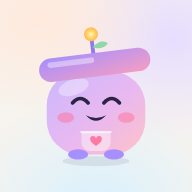
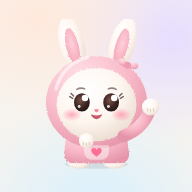
Pip is now a fluffy bunny
An original bunny Pip in the soft, chibi style the owner chose: a round
cream face with fuzzy fur, big glossy eyes with lashes, rosy cheeks, long
ears (one with a bow), a pink hoodie with a heart pocket, and little paws.
Same six moods (waving, happy, thinking, sleeping, excited, idle); new app
icons with Pip waving.

Claude-Session: https://claude.ai/code/session_01BZ79fqEpvmtLEfW6xPypjC

Changed region(s): [[0.1875, 0.125, 0.8125, 0.875]]

diff --git a/public/pip.js b/public/pip.js
@@ -1,51 +1,79 @@
-// Pip, the Pocket Box mascot: a little box with a lid that never quite
-// closes, a sprout with a glowing bulb, and a lot of enthusiasm.
-// Pip.svg(mood, size) returns inline SVG. Moods: hi (waving), happy,
-// think, sleep, wow, idle. Animation lives in CSS (.pip ...).
+// Pip, the Pocket Box mascot: a round, fluffy little bunny in a pink hoodie
+// with a heart pocket and a bow on one ear. Drawn in SVG with soft shading
+// and fuzzy fur so it stays crisp at any size.
+// Pip.svg(mood, size) returns inline SVG. Moods: hi (waving), happy, think,
+// sleep, wow, idle. Animation lives in CSS (.pip ...).
 (function (root) {
   'use strict';
   let n = 0;
   function svg(mood = 'idle', size = 96, { still = false } = {}) {
-    const id = `pip${++n}`;
-    const ink = '#2b2442';
-    const eyes = {
-      happy: `<path d="M39 66 Q46 58 53 66" /><path d="M67 66 Q74 58 81 66" />`,
-      sleep: `<path d="M39 66 Q46 71 53 66" /><path d="M67 66 Q74 71 81 66" />`,
-      wow: `<ellipse cx="46" cy="64" rx="7.5" ry="9.5" class="fill"/><ellipse cx="74" cy="64" rx="7.5" ry="9.5" class="fill"/><circle cx="48.6" cy="60.4" r="2.8" fill="#fff"/><circle cx="76.6" cy="60.4" r="2.8" fill="#fff"/>`,
-      think: `<ellipse cx="47" cy="61" rx="6.4" ry="8.2" class="fill"/><ellipse cx="75" cy="61" rx="6.4" ry="8.2" class="fill"/><circle cx="49.5" cy="57" r="2.3" fill="#fff"/><circle cx="77.5" cy="57" r="2.3" fill="#fff"/>`,
-    }[mood] || `<g class="pip-eyes"><ellipse cx="45" cy="65" rx="7.6" ry="9.6" class="fill"/><ellipse cx="75" cy="65" rx="7.6" ry="9.6" class="fill"/><circle cx="47.8" cy="61" r="3" fill="#fff"/><circle cx="77.8" cy="61" r="3" fill="#fff"/><circle cx="43" cy="69" r="1.3" fill="#fff" opacity=".8"/><circle cx="73" cy="69" r="1.3" fill="#fff" opacity=".8"/></g>`;
+    const k = `pip${++n}`;
+    const ink = '#3b2626';
+    const closed = mood === 'happy' || mood === 'sleep';
+    const ey = mood === 'think' ? 71.5 : 74;
+    const ew = mood === 'wow' ? 8 : 7;
+    const eh = mood === 'wow' ? 9 : 8.2;
+    const eyes = closed
+      ? (mood === 'happy'
+        ? `<path d="M40.5 75 Q47 68.5 53.5 75" /><path d="M66.5 75 Q73 68.5 79.5 75" />`
+        : `<path d="M40.5 74 Q47 78.5 53.5 74" /><path d="M66.5 74 Q73 78.5 79.5 74" />`)
+      : `<g class="pip-eyes">
+          <ellipse cx="47" cy="${ey}" rx="${ew}" ry="${eh}" fill="url(#${k}e)" stroke="none"/>
+          <ellipse cx="73" cy="${ey}" rx="${ew}" ry="${eh}" fill="url(#${k}e)" stroke="none"/>
+          <circle cx="49.8" cy="${ey - 3.8}" r="2.9" fill="#fff" stroke="none"/><circle cx="75.8" cy="${ey - 3.8}" r="2.9" fill="#fff" stroke="none"/>
+          <circle cx="44.6" cy="${ey + 3.6}" r="1.3" fill="#fff" opacity=".85" stroke="none"/><circle cx="70.6" cy="${ey + 3.6}" r="1.3" fill="#fff" opacity=".85" stroke="none"/>
+          <path d="M38.8 ${ey - 3.5} l-2.6 -1.6 M39.6 ${ey - 5.6} l-2.2 -2.2" stroke-width="1.3" opacity=".7"/><path d="M81.2 ${ey - 3.5} l2.6 -1.6 M80.4 ${ey - 5.6} l2.2 -2.2" stroke-width="1.3" opacity=".7"/>
+        </g>`;
+    const brows = `<path d="M42.5 62.5 Q46 60.4 49.5 62" stroke-width="1.4" opacity=".55"/><path d="M70.5 62 Q74 60.4 77.5 62.5" stroke-width="1.4" opacity=".55"/>`;
     const mouth = {
-      happy: `<path d="M51 77 Q60 87 69 77 Q60 82 51 77Z" class="fill"/>`,
-      hi: `<path d="M51 77 Q60 87 69 77 Q60 82 51 77Z" class="fill"/>`,
-      sleep: `<ellipse cx="60" cy="79" rx="2.6" ry="2" class="fill"/>`,
-      wow: `<ellipse cx="60" cy="80" rx="4.2" ry="5" class="fill"/>`,
-      think: `<path d="M55 80 Q60 78 66 80" />`,
-    }[mood] || `<path d="M53 77 Q60 84 67 77" />`;
+      happy: `<path d="M55.2 85.4 Q60 92.6 64.8 85.4 Q60 87.6 55.2 85.4Z" fill="#c75b6b" stroke="#c75b6b" stroke-width="1"/>`,
+      hi: `<path d="M55.6 85.2 Q60 91.6 64.4 85.2 Q60 87.2 55.6 85.2Z" fill="#c75b6b" stroke="#c75b6b" stroke-width="1"/>`,
+      wow: `<ellipse cx="60" cy="87.4" rx="3" ry="3.6" fill="#c75b6b" stroke="none"/>`,
+      sleep: `<path d="M57.6 86.2 Q60 87.6 62.4 86.2" stroke-width="1.5"/>`,
+      think: `<path d="M57 86.6 Q60 85.4 63.4 86.8" stroke-width="1.5"/>`,
+    }[mood] || `<path d="M56.2 85 q1.9 2 3.8 0 q1.9 2 3.8 0" stroke-width="1.5"/>`;
+    // Paws: held at the chest, or one raised to wave.
+    const paw = (cx, cy, r = 6.6) => `<circle cx="${cx}" cy="${cy}" r="${r}" fill="url(#${k}c)"/><path d="M${cx - 2.6} ${cy + 1.6} v2 M${cx} ${cy + 2.2} v2 M${cx + 2.6} ${cy + 1.6} v2" stroke="#e3cfc2" stroke-width="1.1" stroke-linecap="round"/>`;
+    const paws = mood === 'hi'
+      ? `${paw(51, 108)}<g class="pip-arm"><path d="M84 104 Q100 98 106 84" stroke="url(#${k}h)" stroke-width="11" fill="none" stroke-linecap="round"/>${paw(108, 78, 7.6)}</g>`
+      : mood === 'think' ? `${paw(51, 109)}<path d="M80 108 Q80 100 72 96" stroke="url(#${k}h)" stroke-width="10" fill="none" stroke-linecap="round"/>${paw(70, 95, 6.6)}`
+        : `${paw(51, 108)}${paw(69, 108)}`;
     const extra = {
-      hi: `<g class="pip-arm"><path d="M101 84 Q112 76 114 62" stroke="#c9a6f7" stroke-width="10" fill="none" stroke-linecap="round"/><circle cx="114.5" cy="59" r="6.8" fill="#d7b3f6"/></g>`,
-      sleep: `<g class="pip-z" fill="#9b84f5" font-family="ui-rounded, system-ui, sans-serif" font-weight="800"><text x="96" y="24" font-size="15">z</text><text x="108" y="12" font-size="10">z</text></g>`,
-      think: `<g class="pip-dots" fill="#9b84f5"><circle cx="98" cy="22" r="3.2"/><circle cx="107" cy="14" r="4"/><circle cx="116" cy="5" r="4.6"/></g>`,
-      wow: `<g fill="#ffcf5c"><path d="M14 40 l3 -7 l3 7 l7 3 l-7 3 l-3 7 l-3 -7 l-7 -3z"/><path d="M104 30 l2 -5 l2 5 l5 2 l-5 2 l-2 5 l-2 -5 l-5 -2z"/></g>`,
+      sleep: `<g class="pip-z" fill="#b59cf5" font-family="ui-rounded, system-ui, sans-serif" font-weight="800"><text x="92" y="44" font-size="15">z</text><text x="104" y="32" font-size="10">z</text></g>`,
+      think: `<g class="pip-dots" fill="#b59cf5"><circle cx="94" cy="50" r="3"/><circle cx="102" cy="42" r="3.8"/><circle cx="111" cy="33" r="4.6"/></g>`,
+      wow: `<g fill="#ffcf5c"><path d="M12 62 l3 -7 l3 7 l7 3 l-7 3 l-3 7 l-3 -7 l-7 -3z"/><path d="M103 56 l2 -5 l2 5 l5 2 l-5 2 l-2 5 l-2 -5 l-5 -2z"/></g>`,
     }[mood] || '';
-    return `<svg class="pip pip-${mood}${still ? ' still' : ''}" width="${size}" height="${size}" viewBox="-2 -9 124 134" role="img" aria-label="Pip">
+    const droop = mood === 'sleep' ? 1 : 0;
+    return `<svg class="pip pip-${mood}${still ? ' still' : ''}" width="${size}" height="${Math.round(size * 1.12)}" viewBox="0 0 120 134" role="img" aria-label="Pip">
   <defs>
-    <linearGradient id="${id}b" x1="0" y1="0" x2="1" y2="1"><stop offset="0" stop-color="#c9b8ff"/><stop offset=".55" stop-color="#e9b8f0"/><stop offset="1" stop-color="#ffc2c7"/></linearGradient>
-    <linearGradient id="${id}l" x1="0" y1="0" x2="1" y2="1"><stop offset="0" stop-color="#a68fff"/><stop offset="1" stop-color="#f59ec2"/></linearGradient>
-    <radialGradient id="${id}g" cx=".5" cy=".5" r=".5"><stop offset="0" stop-color="#fff6c9"/><stop offset=".5" stop-color="#ffd76a"/><stop offset="1" stop-color="#ffb84d"/></radialGradient>
+    <radialGradient id="${k}c" cx=".38" cy=".3" r=".8"><stop offset="0" stop-color="#ffffff"/><stop offset=".55" stop-color="#fdf6ef"/><stop offset="1" stop-color="#e8d7cb"/></radialGradient>
+    <radialGradient id="${k}h" cx=".35" cy=".22" r=".85"><stop offset="0" stop-color="#ffe0e7"/><stop offset=".55" stop-color="#f8b9c8"/><stop offset="1" stop-color="#e595a9"/></radialGradient>
+    <radialGradient id="${k}i" cx=".5" cy=".4" r=".7"><stop offset="0" stop-color="#ffd0da"/><stop offset="1" stop-color="#f3a2b5"/></radialGradient>
+    <radialGradient id="${k}e" cx=".42" cy=".38" r=".7"><stop offset="0" stop-color="#7a5348"/><stop offset=".55" stop-color="#3e2723"/><stop offset="1" stop-color="#1e1212"/></radialGradient>
+    <radialGradient id="${k}b" cx=".5" cy=".5" r=".5"><stop offset="0" stop-color="#ff8fa8" stop-opacity=".75"/><stop offset="1" stop-color="#ff8fa8" stop-opacity="0"/></radialGradient>
+    <filter id="${k}f" x="-10%" y="-10%" width="120%" height="120%"><feTurbulence type="fractalNoise" baseFrequency=".85" numOctaves="2" seed="7" result="t"/><feDisplacementMap in="SourceGraphic" in2="t" scale="2.2" xChannelSelector="R" yChannelSelector="G"/></filter>
   </defs>
-  <ellipse cx="60" cy="118" rx="30" ry="4.5" fill="#2b2442" opacity=".09" class="pip-shadow"/>
+  <ellipse cx="60" cy="129" rx="28" ry="4" fill="#3b2626" opacity=".1" class="pip-shadow"/>
   <g class="pip-body">
-    <g class="pip-sprout" transform="rotate(-7 14 44)"><path d="M60 30 C60 22 60 18 60 13" stroke="#8f78f2" stroke-width="3.4" fill="none" stroke-linecap="round"/><path d="M60 22 C66 16 72 17 74 20 C70 24 65 24 60 22Z" fill="#8fd6a8"/><circle cx="60" cy="10" r="6.2" fill="url(#${id}g)" class="pip-bulb"/></g>
-    <rect x="16" y="38" width="88" height="74" rx="30" fill="url(#${id}b)"/>
-    <ellipse cx="40" cy="52" rx="14" ry="7" fill="#fff" opacity=".35" transform="rotate(-18 40 52)"/>
-    <g class="pip-lid" transform="rotate(-7 14 44)"><rect x="10" y="27" width="100" height="21" rx="10.5" fill="url(#${id}l)"/><rect x="18" y="30.5" width="42" height="5" rx="2.5" fill="#fff" opacity=".4"/></g>
-    <g class="pip-pocket"><path d="M47 92 h26 v9 a8 8 0 0 1 -8 8 h-10 a8 8 0 0 1 -8 -8z" fill="#fff" opacity=".42"/><path d="M47 92 h26" stroke="#fff" stroke-width="2" opacity=".7" stroke-linecap="round"/><path d="M60 104.5 c-3.4 -2.4 -5.2 -4 -5.2 -6 a2.6 2.6 0 0 1 5.2 -0.6 a2.6 2.6 0 0 1 5.2 0.6 c0 2 -1.8 3.6 -5.2 6z" fill="#ff7aa2"/></g>
-    <g stroke="${ink}" stroke-width="3.2" stroke-linecap="round" fill="none">${eyes}${mouth}</g>
-    <ellipse cx="33" cy="79" rx="7.5" ry="4.6" fill="#ff6f9c" opacity=".5"/><ellipse cx="87" cy="79" rx="7.5" ry="4.6" fill="#ff6f9c" opacity=".5"/>
-    <ellipse cx="44" cy="112" rx="9" ry="4.6" fill="#a68fff"/><ellipse cx="76" cy="112" rx="9" ry="4.6" fill="#a68fff"/>
+    <g class="pip-ears" filter="url(#${k}f)">
+      <g transform="rotate(${-14 - droop * 30} 44 46)"><ellipse cx="44" cy="22" rx="11" ry="25" fill="url(#${k}c)"/><ellipse cx="44" cy="24" rx="5.6" ry="17" fill="url(#${k}i)"/></g>
+      <g transform="rotate(${16 + droop * 34} 76 46)"><ellipse cx="76" cy="22" rx="11" ry="25" fill="url(#${k}c)"/><ellipse cx="76" cy="24" rx="5.6" ry="17" fill="url(#${k}i)"/></g>
+    </g>
+    <g filter="url(#${k}f)">
+      <ellipse cx="44" cy="127" rx="10" ry="6" fill="url(#${k}c)"/><ellipse cx="76" cy="127" rx="10" ry="6" fill="url(#${k}c)"/>
+      <path d="M33 104 Q33 96 42 95 L78 95 Q87 96 87 104 L89 120 Q89 128 80 128 L40 128 Q31 128 31 120 Z" fill="url(#${k}h)"/>
+      <ellipse cx="60" cy="74" rx="45" ry="41" fill="url(#${k}h)"/>
+      <ellipse cx="60" cy="76" rx="35.5" ry="32.5" fill="url(#${k}c)"/>
+    </g>
+    <path d="M24 62 Q30 40 52 34" stroke="#fff" stroke-width="3.2" stroke-linecap="round" fill="none" opacity=".55"/>
+    <g class="pip-bow" transform="translate(88 40) rotate(18)"><path d="M0 0 C-10 -9 -14 4 -2 3 Z" fill="url(#${k}h)"/><path d="M0 0 C10 -9 14 4 2 3 Z" fill="url(#${k}h)"/><circle cx="0" cy="1" r="3" fill="#ee9db1"/></g>
+    <g class="pip-pocket"><path d="M49 112 h22 v6 a7 7 0 0 1 -7 7 h-8 a7 7 0 0 1 -7 -7z" fill="#fff" opacity=".45"/><path d="M60 122.4 c-3 -2.1 -4.6 -3.5 -4.6 -5.3 a2.3 2.3 0 0 1 4.6 -0.5 a2.3 2.3 0 0 1 4.6 0.5 c0 1.8 -1.6 3.2 -4.6 5.3z" fill="#ff6f93"/></g>
+    <ellipse cx="38" cy="85" rx="9" ry="6" fill="url(#${k}b)"/><ellipse cx="82" cy="85" rx="9" ry="6" fill="url(#${k}b)"/>
+    <g stroke="${ink}" stroke-width="2.6" stroke-linecap="round" stroke-linejoin="round" fill="none">${eyes}${brows}${mouth}</g>
+    <path d="M57.8 80.4 Q60 79.2 62.2 80.4 Q61.6 82.6 60 83 Q58.4 82.6 57.8 80.4Z" fill="#f48aa0"/>
+    ${paws}
     ${extra}
   </g>
-  <style>.pip .fill{fill:${ink};stroke:none}</style>
 </svg>`;
   }
   root.Pip = { svg };

diff --git a/public/app.css b/public/app.css
@@ -451,7 +451,7 @@ body.has-nav .shell { padding-bottom: calc(108px + env(safe-area-inset-bottom));
 .pip .pip-shadow { animation: pip-shadow 3.6s ease-in-out infinite; transform-box: view-box; transform-origin: 60px 118px; }
 .pip .pip-eyes { animation: pip-blink 5.2s infinite; transform-box: view-box; transform-origin: 60px 65px; }
 .pip .pip-bulb { animation: pip-glow 2.4s ease-in-out infinite; }
-.pip-hi .pip-arm { animation: pip-wave 1.3s ease-in-out infinite; transform-box: view-box; transform-origin: 101px 86px; }
+.pip-hi .pip-arm { animation: pip-wave 1.3s ease-in-out infinite; transform-box: view-box; transform-origin: 84px 104px; }
 .pip-sleep .pip-z { animation: pip-z 2.8s ease-in-out infinite; }
 .pip-think .pip-dots circle { animation: pip-dot 1.5s ease-in-out infinite; }
 .pip-think .pip-dots circle:nth-child(2) { animation-delay: .2s; } .pip-think .pip-dots circle:nth-child(3) { animation-delay: .4s; }

diff --git a/public/sw.js b/public/sw.js
@@ -1,6 +1,6 @@
 // Pocket Box service worker: wake-up and Studio notifications, and an offline
 // copy of the Runtime so agents still run on a plane.
-const CACHE = 'pocket-v3';
+const CACHE = 'pocket-v4';
 const SHELL = ['/', '/runtime', '/app.js', '/app.css', '/runtime.js', '/pip.js', '/agent-worker.js', '/agent-core.js', '/icon.svg', '/icon-180.png', '/icon-192.png', '/manifest.webmanifest'];
 
 self.addEventListener('install', (e) => {
